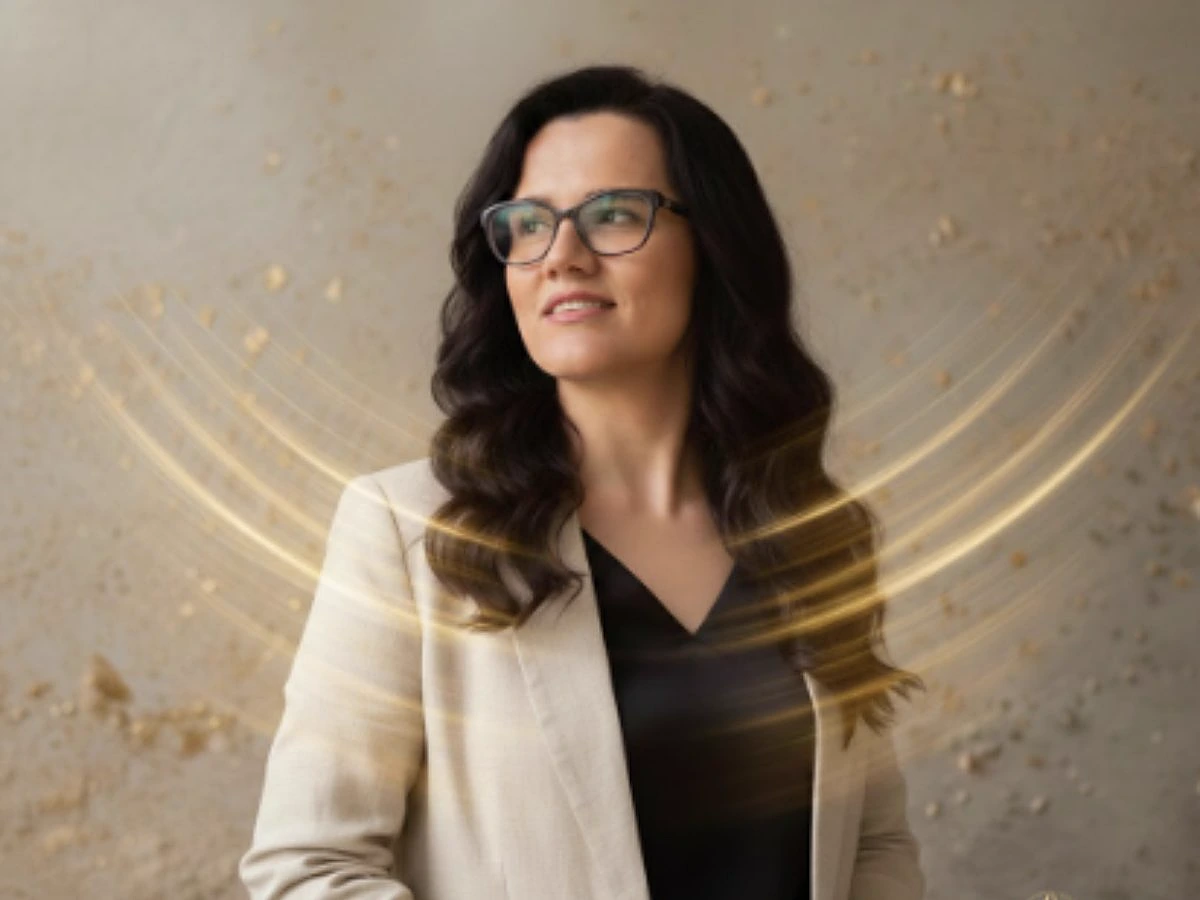
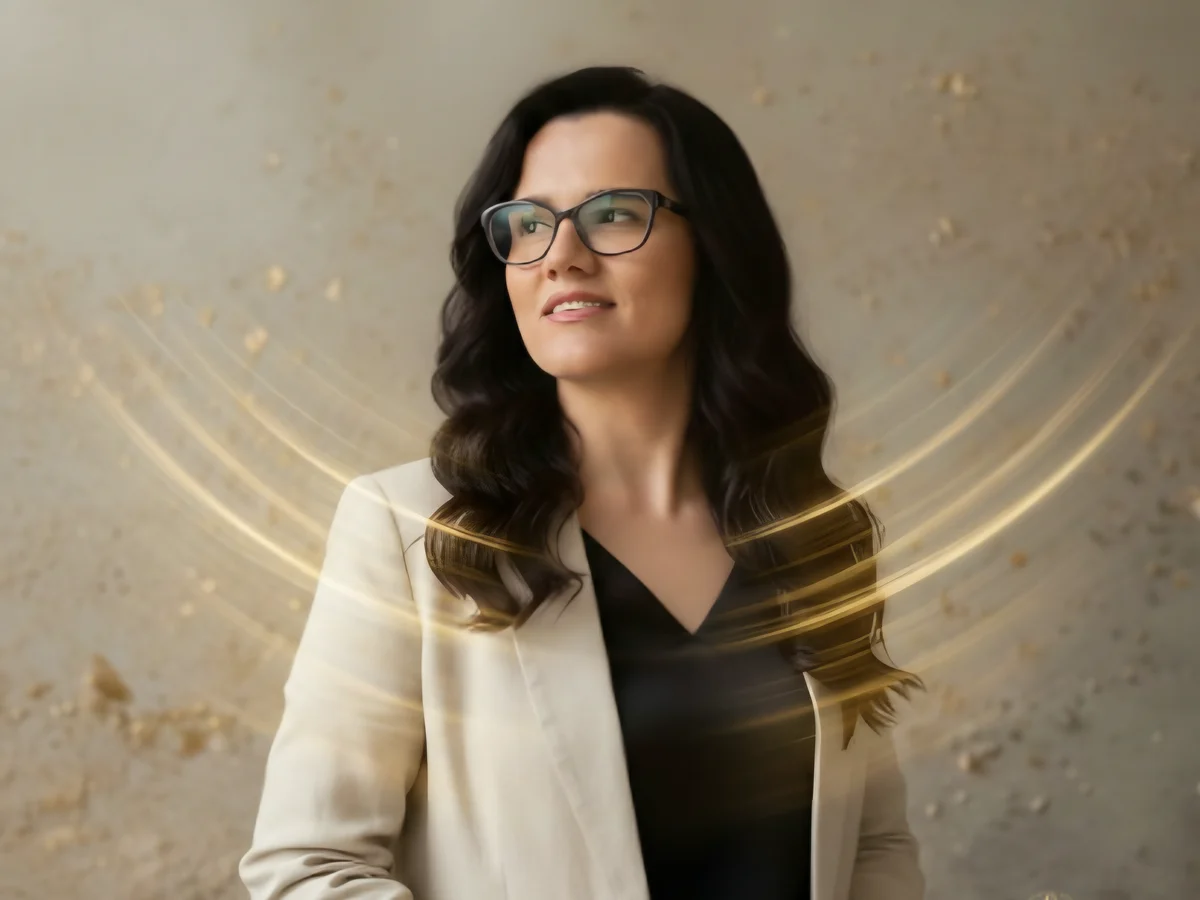
feat(hub): retrato da Andreía em alta definição com ampliação por IA + versão de 1800 px

diff --git a/src/features/hub/content.ts b/src/features/hub/content.ts
@@ -138,10 +138,14 @@ export const journeys: readonly JourneyLink[] = [
 /** Vídeos em destaque. Vazio: a seção não aparece. */
 export const videos: readonly HubVideo[] = []
 
-/** Retrato da Andreía (o mesmo do Keepo), em duas larguras: o navegador baixa a que precisa. */
+/**
+ * Retrato da Andreía (o do Keepo, com a definição recuperada por IA: Real-ESRGAN misturado ao original),
+ * em três larguras: o navegador baixa a que precisa (1800 para celulares e telas de alta densidade).
+ */
 export const portrait = {
   src: '/images/andreia-1200.webp',
-  srcSet: '/images/andreia-600.webp 600w, /images/andreia-1200.webp 1200w',
+  srcSet:
+    '/images/andreia-600.webp 600w, /images/andreia-1200.webp 1200w, /images/andreia-1800.webp 1800w',
   width: 1200,
   height: 900,
   alt: `${BRAND_PERSON} sorrindo, com anéis de luz dourada ao redor`,

diff --git a/.ai/changelog.md b/.ai/changelog.md
@@ -54,9 +54,9 @@ versão com data.
   `firestore.rules`, `.env.example` e variáveis do Firebase no deploy.
 - Logo nova "Anéis nítidos": fundo transparente, anéis grossos e ponto âmbar maior; o favicon se adapta ao
   navegador claro ou escuro, e os anéis do site seguem o mesmo desenho.
-- Retrato da Andreía mais nítido no hub: reprocessado a partir da imagem do Keepo com limpeza leve de
-  ruído, realce de nitidez e WebP de qualidade alta (68 kB e 24 kB). A foto original do Keepo já é
-  pequena; alta definição de verdade depende do arquivo original da fotógrafa.
+- Retrato da Andreía em alta definição no hub: a imagem (gerada por IA, pequena no Keepo) foi ampliada 4×
+  com o Real-ESRGAN, rodando no computador do desenvolvedor, e misturada ao original (65/35, com grão
+  leve) para não ficar com pele "pintada". Três larguras: 600, 1200 e 1800 px (18, 40 e 68 kB).
 - Documentação do Modo Andreía (Fase 4, passo 7): F7 em `features.md`, coleções e regras do Firestore
   em `architecture.md`, `guia-modo-andreia.md` (passo a passo simples para ela) e roadmap da Fase 4
   com as pendências.

diff --git a/.ai/roadmap.md b/.ai/roadmap.md
@@ -34,8 +34,7 @@ Ordem sugerida. Cada etapa termina com `npm run check` passando e um commit.
 - [x] Logo não fica mais por trás do cartão "Comece aqui" no computador
 - [x] README no estilo do Tabi
 - [x] Retrato da Andreía (foto do Keepo) no início do hub e na seção "Sobre"
-- [x] Retrato reprocessado para ficar mais nítido (a fonte do Keepo é pequena)
-- [ ] Receber da Andreía a foto original em alta (arquivo da sessão de fotos) para trocar o retrato
+- [x] Retrato em alta definição: ampliado por IA (Real-ESRGAN + mistura com o original), 600/1200/1800 px
 - [x] Tema claro como padrão na primeira visita
 - [x] Limpar o ruído do áudio de boas-vindas (versão 6 "só voz": silêncios totais, voz nítida; receita
       em `features.md`, F1 → Mídia)
